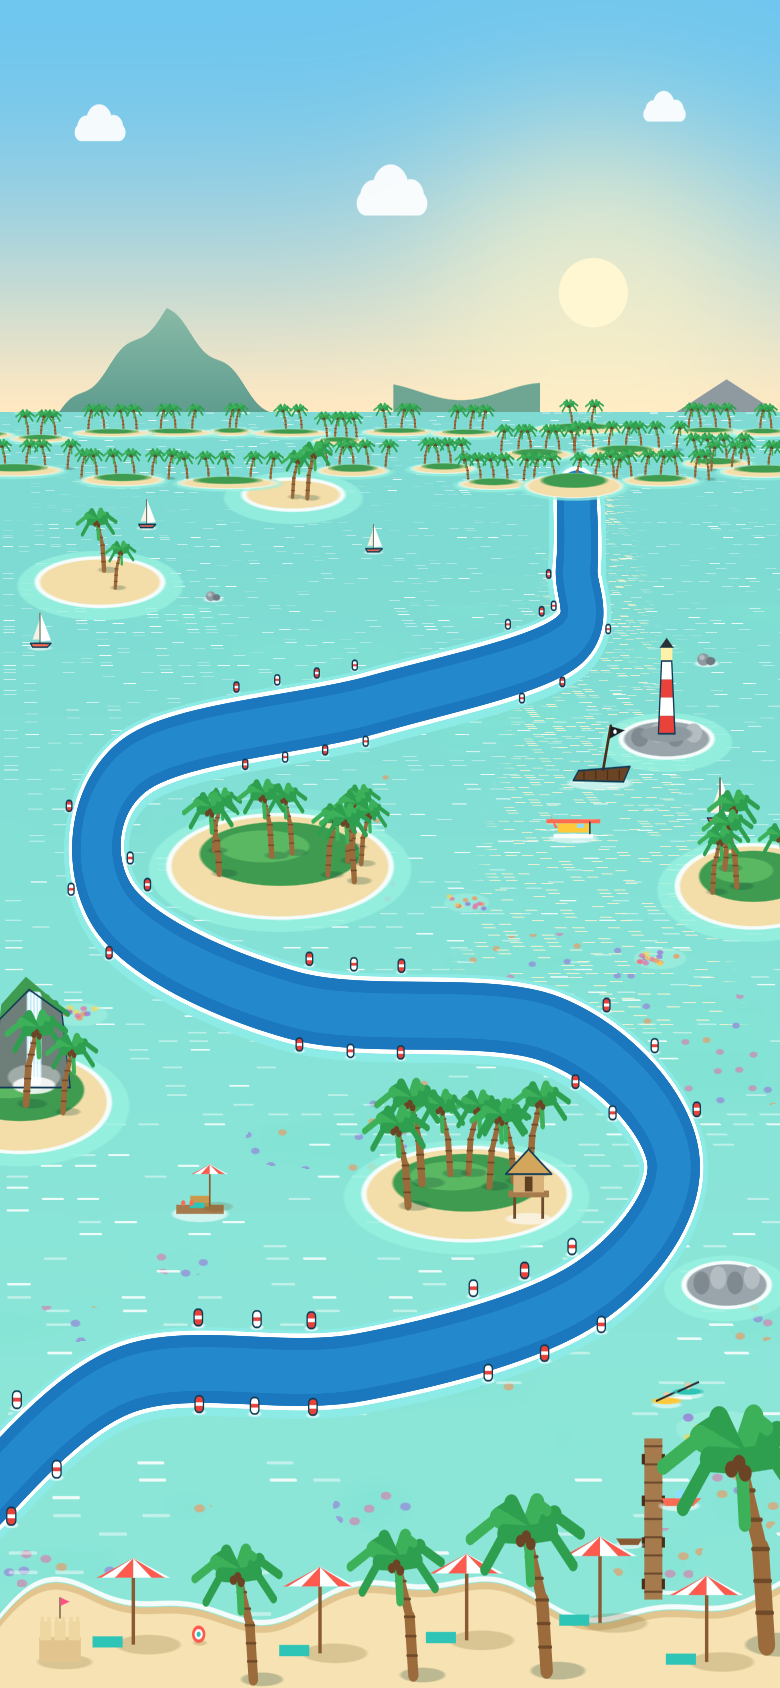
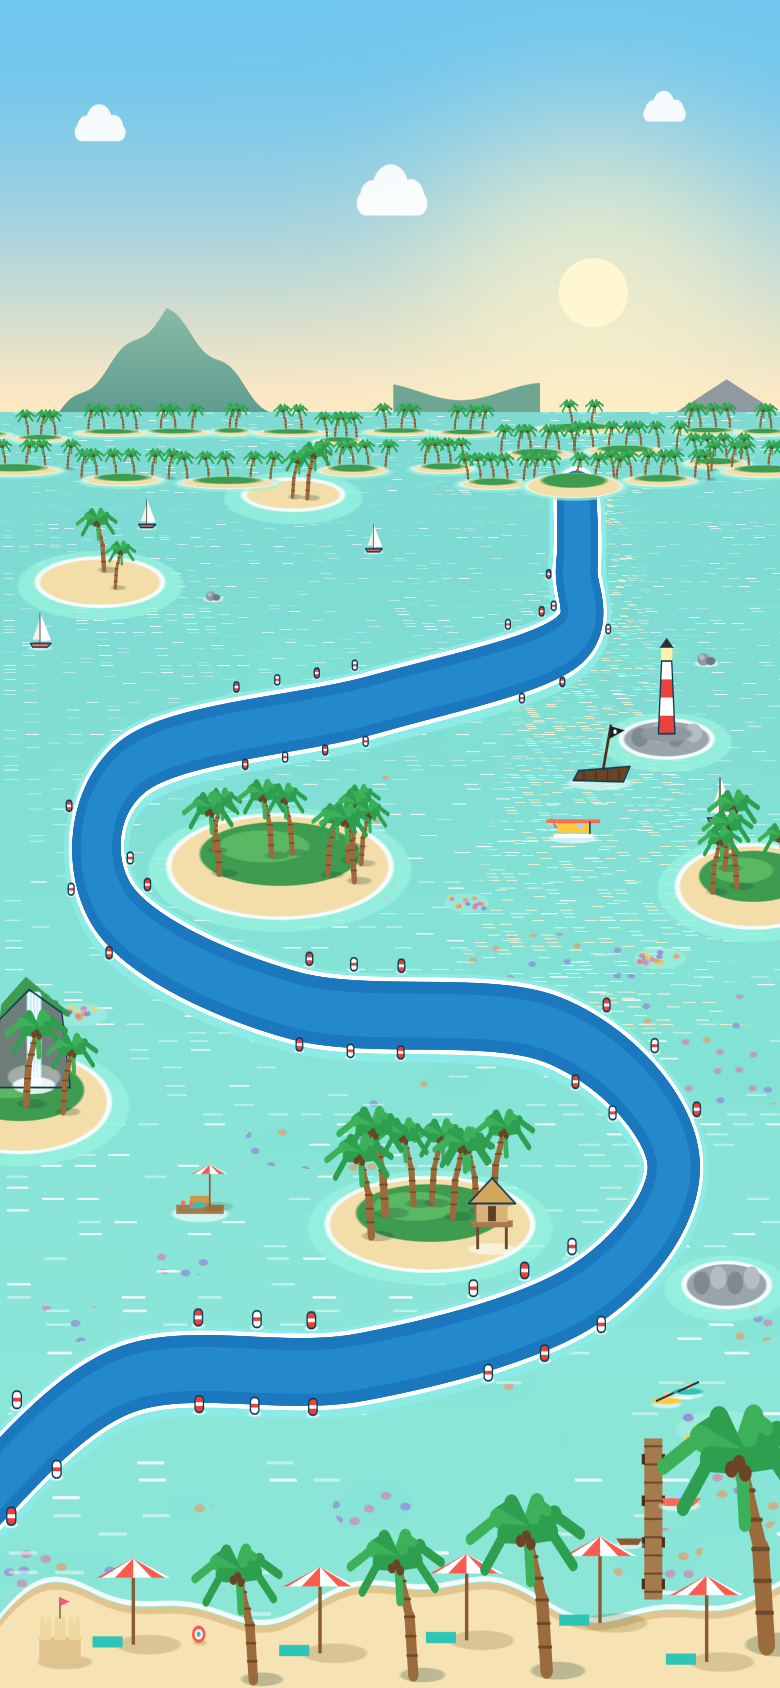
Water Cup map: the island below race 4 a little lower and further left

Changed region(s): [[0.4, 0.6161, 0.7385, 0.7701]]

diff --git a/Assets/Scripts/Editor/MapArtGenerator.Water.cs b/Assets/Scripts/Editor/MapArtGenerator.Water.cs
@@ -25,7 +25,7 @@ namespace SomeGame.EditorTools
         // edge) and is shrunk until it keeps clear of the lane.
         static readonly (Vector2 c, Vector2 r, IslandLook look)[] SeaIslandPlan =
         {
-            (new Vector2(700f, 570f), new Vector2(150f, 52f), IslandLook.Jungle),
+            (new Vector2(645f, 535f), new Vector2(150f, 52f), IslandLook.Jungle),
             (new Vector2(420f, 948f), new Vector2(175f, 62f), IslandLook.Jungle),
             (new Vector2(760f, 1265f), new Vector2(115f, 34f), IslandLook.Jungle),
             (new Vector2(30f, 676f), new Vector2(130f, 56f), IslandLook.Cliff),
